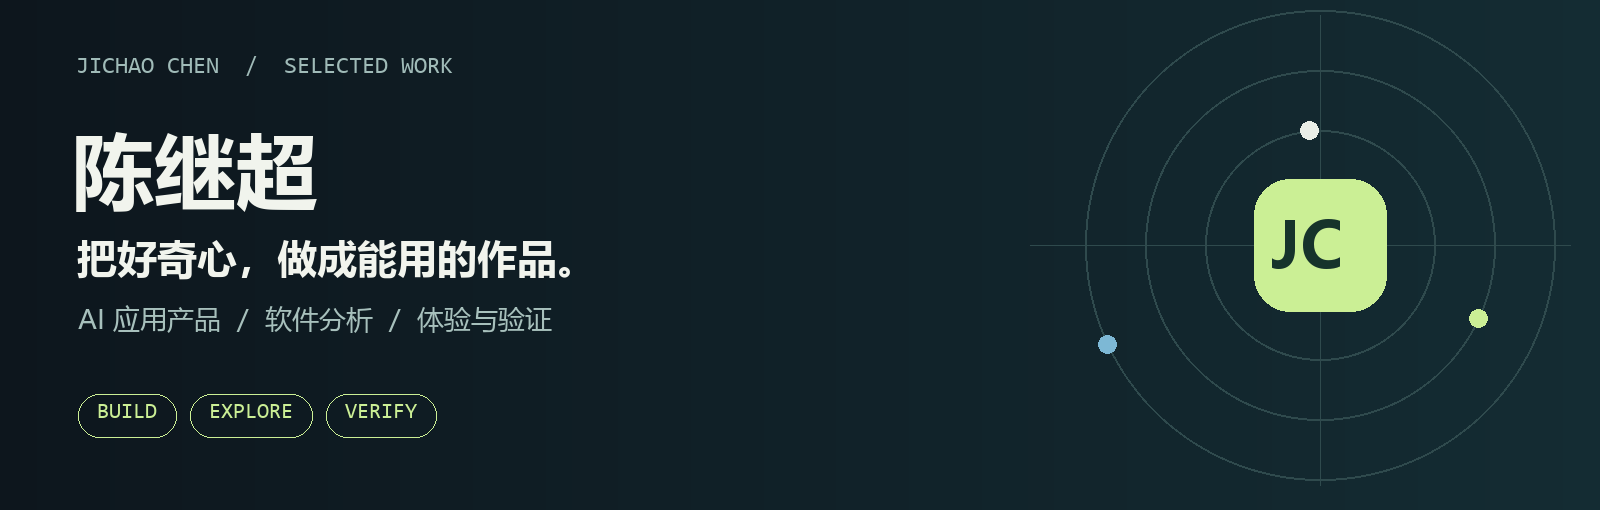
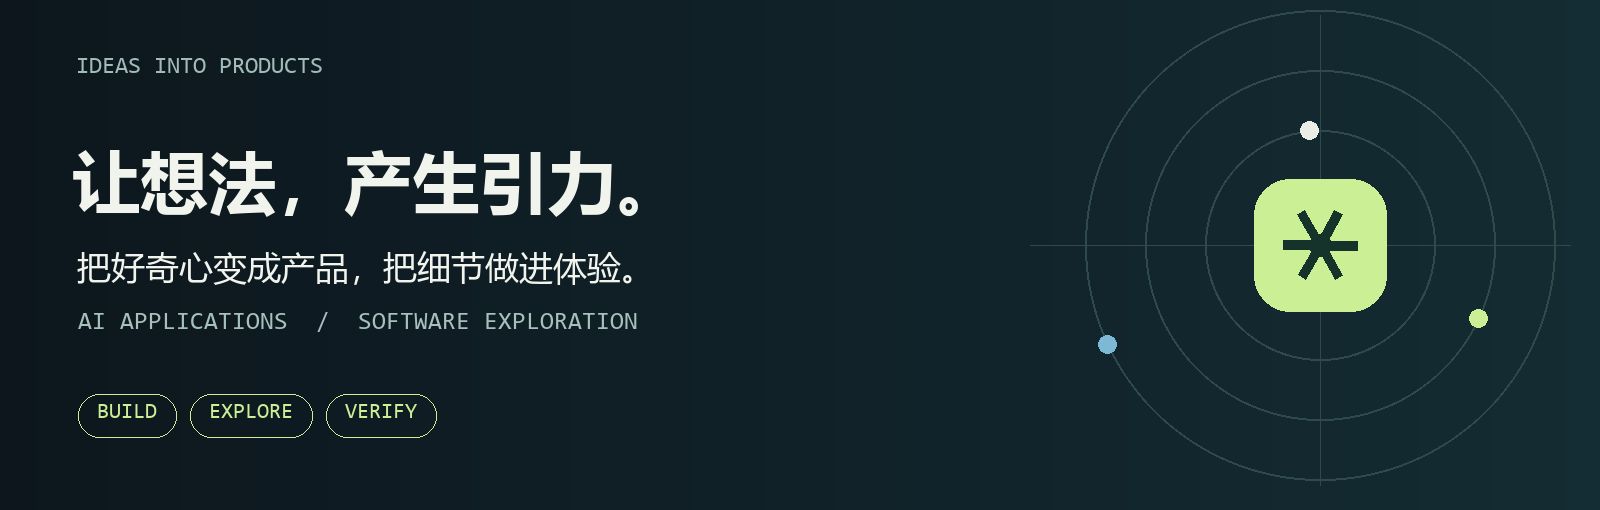
Simplify cover around the work and ideas

diff --git a/README.md b/README.md
@@ -1,5 +1,5 @@
 <p align="center">
-  <img src="assets/profile-hero.png" alt="陈继超 — 把好奇心，做成能用的作品。AI应用产品 / 软件分析 / 体验与验证" width="100%" />
+  <img src="assets/profile-hero.png" alt="作品空间 — 让想法，产生引力。" width="100%" />
 </p>
 
 <p align="center">
